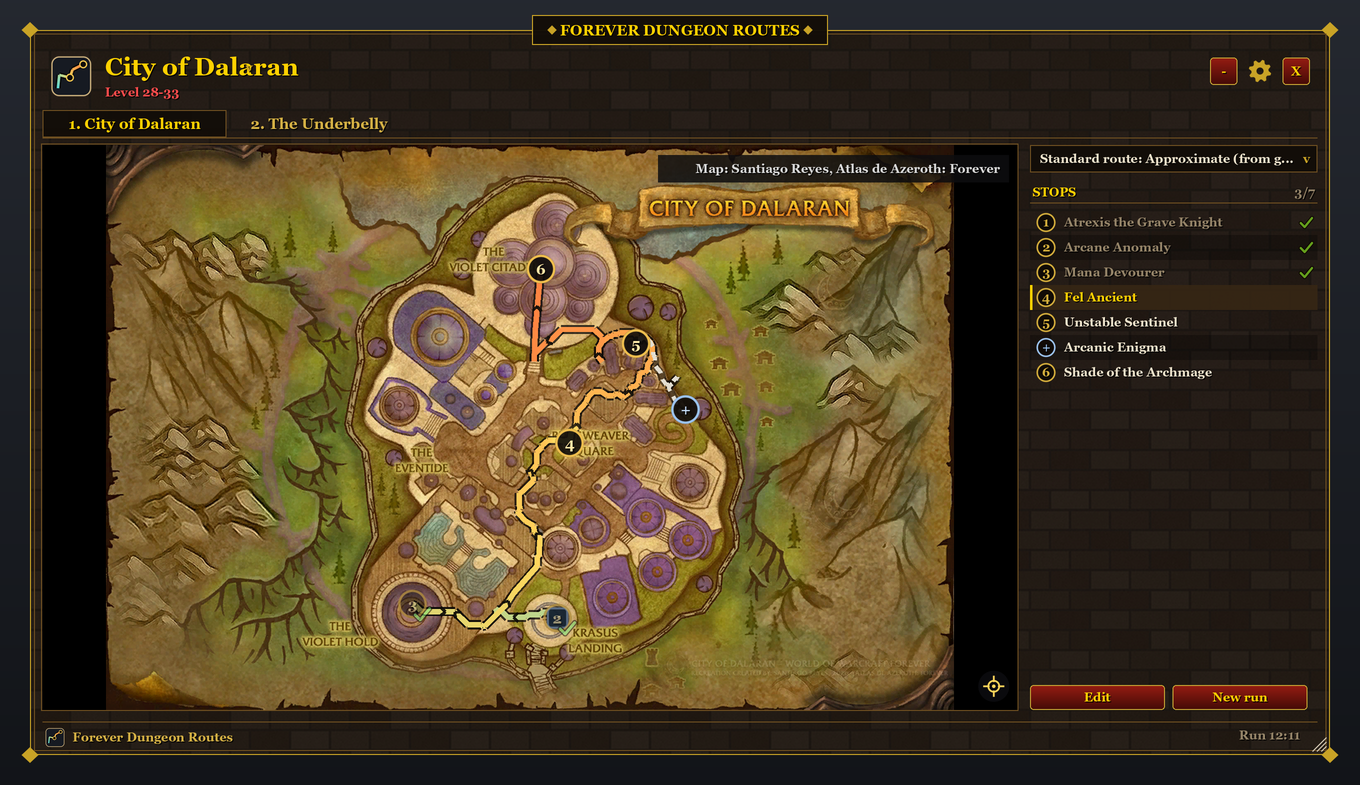
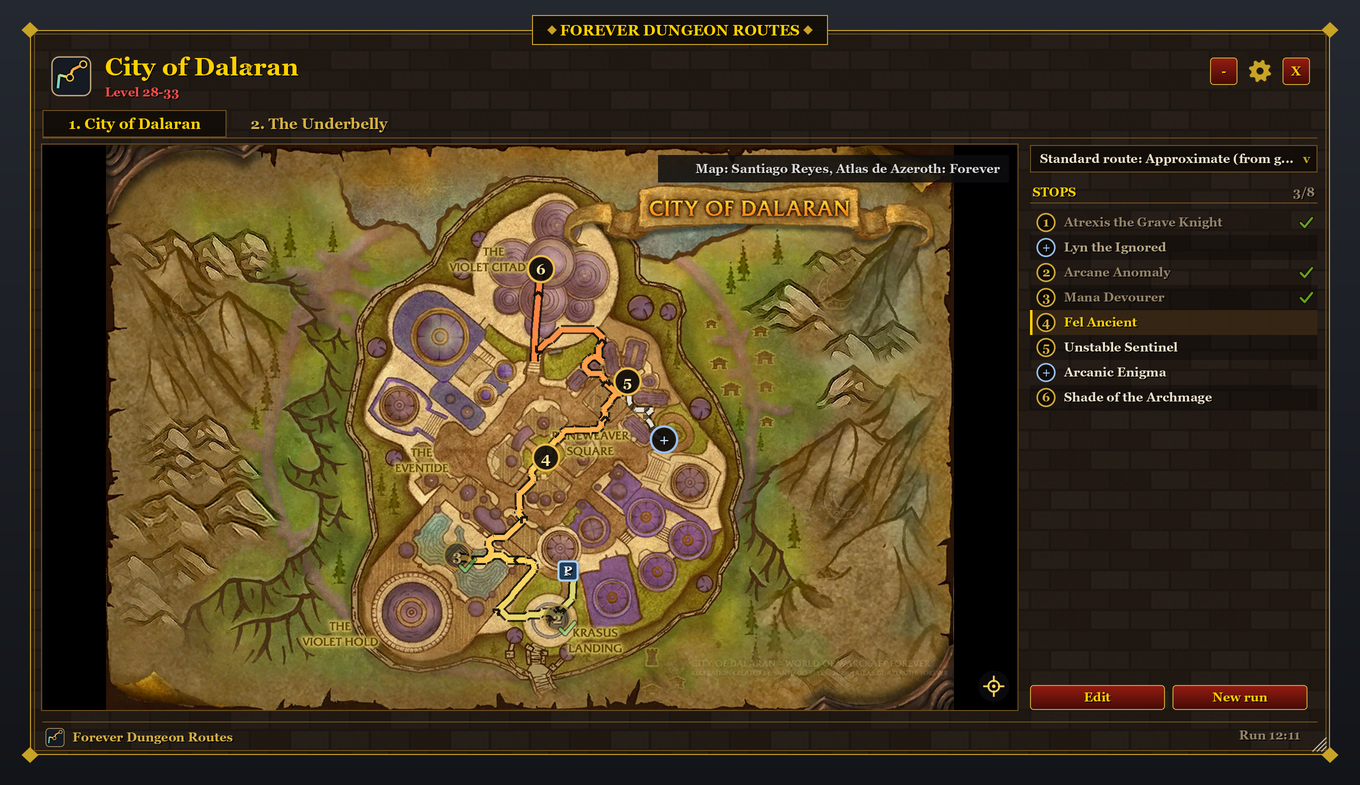
1.0.8: better rough route for City of Dalaran (way out of the sewers, three bosses placed after a video guide)

Changed region(s): [[0.7412, 0.3057, 0.9882, 0.5197], [0.3706, 0.3975, 0.525, 0.6115], [0.2779, 0.642, 0.4324, 0.8255]]

diff --git a/README.md b/README.md
@@ -263,6 +263,7 @@ guides ([The Hall of Thanes](https://www.icy-veins.com/wow-forever/hall-of-thane
 texts say about the places was used, no map or route from them. Highland Horror and Lyn the Ignored
 are placed after warcraft.wiki.gg ([Highland Horror](https://warcraft.wiki.gg/wiki/Highland_Horror),
 [Lyn the Ignored](https://warcraft.wiki.gg/wiki/Lyn_the_Ignored)).
+In City of Dalaran the places of Mana Devourer, Unstable Sentinel and Arcanic Enigma and the way out of the sewers come from the video guide by Jurdi ([YouTube](https://www.youtube.com/watch?v=BT_73jJlqNo), beta footage): the minimap during each fight, matched with the game's own minimap; the turn towards the surface after [wow.gg](https://wow.gg/guides/city-of-dalaran).
 The rough route of The Drowned City takes the area of each boss from the video guide by Uncas ([YouTube](https://www.youtube.com/watch?v=rJU4PkcrRuk)): the area name the game shows above the minimap during each fight. The way to the hidden room of the Primeval Elemental comes from the written guides of [Wowhead](https://www.wowhead.com/forever/guide/the-drowned-city-dungeon-overview-location-rewards) and [Mobalytics](https://mobalytics.gg/wow-forever/profile/fierce-sun-30v6cf/dungeons/drowned-city-complete-dungeon-guide); no map or route from them.
 
 ## License

diff --git a/CHANGELOG.md b/CHANGELOG.md
@@ -1,5 +1,13 @@
 # Changelog
 
+## 1.0.8
+
+- City of Dalaran has a better rough route, from a video guide (the minimap during each fight, matched with the
+  game's own minimap): the way out of the sewers is on the route now (at Atrexis turn right into the channel to the
+  east; at the end of the pipe a portal takes you up into the city, north of Krasus' Landing; a "P" square switches
+  between the two map levels). Mana Devourer stands in the courtyard north of the Violet Hold, Unstable Sentinel and
+  the optional Arcanic Enigma closer to where they are fought; Arcane Anomaly and the Fel Ancient were confirmed.
+
 ## 1.0.7
 
 - The Drowned City has a rough standard route, "Approximate (from guides)": Zul'Alai in the Sunken Hollow, Var'Taka in
